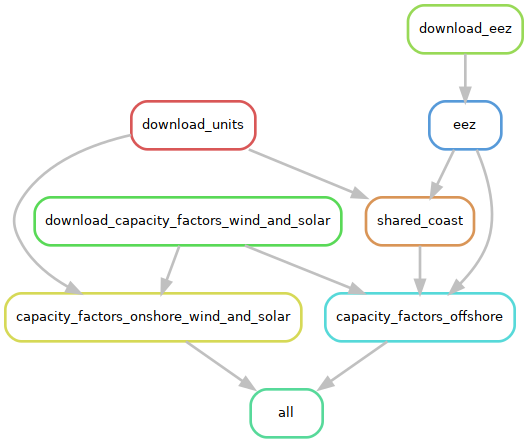
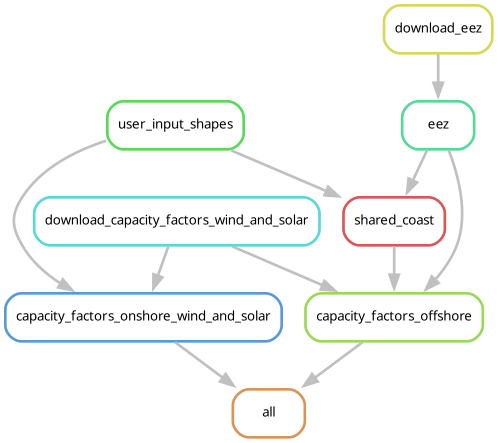
Fix documentation: citation, references and a better IO

diff --git a/modules/capacity_factors_wind_pv/README.md b/modules/capacity_factors_wind_pv/README.md
@@ -11,24 +11,21 @@ Here is a brief IO diagram of the module's operation.
 title: capacity_factors_wind_pv
 ---
 flowchart LR
-    D1[("`**Databases**
-        capacityfactors (.nc)
-        eez (.gpkg)
+    D1[("`**automatic**
+        - Capacity factors Tröndle et al (2020) (.nc)
+        - Maritime Boundaries Geodatabase (.gpkg)
         ...
     `")] --> |Download| M
-    C1[/"`**User input**
-        units.geojson
+    C1[/"`**user**
+        shapes_{resolution}.geojson
         ...
-    `"/] --> |Resources| M((capacity_factors_wind_pv))
-    M --> O1("
+    `"/] --> M((capacity_factors_wind_pv))
+    M --> O1("`
         capacityfactors-wind-offshore.csv
-        ")
+        `")
     M --> O2("
         capacityfactors-wind-onshore.csv
         ")
-    M --> O3("
-        capacityfactors-wind-offshore.csv
-    ")
     M --> O4("
         capacityfactors-open-field-pv.csv
     ")
@@ -46,8 +43,31 @@ flowchart LR
     ")
 ```
 
+### User
+
+- **resources/user/shapes_{resolution}.geojson**: a file with the desired regional aggregation. CRS must be EPSG:4326.
+
+### Results
+
+- **results/{resolution}/{year}/capacityfactors-{technology}.csv**: timeseries file for the requested technology, year, and resolution.
+
+### Wildcards
+
+- `{resolution}` can by any name in alphanumeric (e.g., `ehighways`).
+- `{year}` can be any year between (and including) `2000`-`2016`.
+- `{technology}` can be any of the following: `wind-offshore`, `wind-onshore`, `open-field-pv`, `rooftop-pv`, `rooftop-pv-n`, `rooftop-pv-e-w`, `rooftop-pv-s-flat`.
+
 ## DAG
 
 Here is a brief example of the module's steps.
 
 ![DAG](rulegraph.png)
+
+## Citation
+
+Tröndle, T., & Pickering, B. (2021). Euro-Calliope Wind and Solar Capacity Factors [Computer software]. <https://doi.org/10.5281/zenodo.3949793>
+
+## References
+
+- Flanders Marine Institute (2019). Maritime Boundaries Geodatabase: Maritime Boundaries and Exclusive Economic Zones (200NM), version 11. Available online at <https://www.marineregions.org/>. <https://doi.org/10.14284/386>
+- Tröndle, T., & Pfenninger, S. (2020). Capacity factor time series for solar and wind power on a 50 km^2 grid in Europe [Data set]. Zenodo. <https://doi.org/10.5281/zenodo.3899687>

diff --git a/modules/capacity_factors_wind_pv/AUTHORS.md b/modules/capacity_factors_wind_pv/AUTHORS.md
@@ -5,6 +5,7 @@ This is the list of contributors to the 'capacity_factors_wind_pv' module for co
 - Tim Tröndle, ETH Zürich and IASS Potsdam <tim.troendle@usys.ethz.ch>
 - Bryn Pickering, University of Cambridge and ETH Zürich <bp325@cam.ac.uk>
 - Jann Launer, TU Delft <j.a.c.launer@tudelft.nl>
+- Ivan Ruiz Manuel, TU Delft <i.ruizmanuel@tudelft.nl>
 
 This does not necessarily list everyone who has contributed to the 'capacity_factors_wind_pv' module code or documentation.
 For a full contributor list, see:
